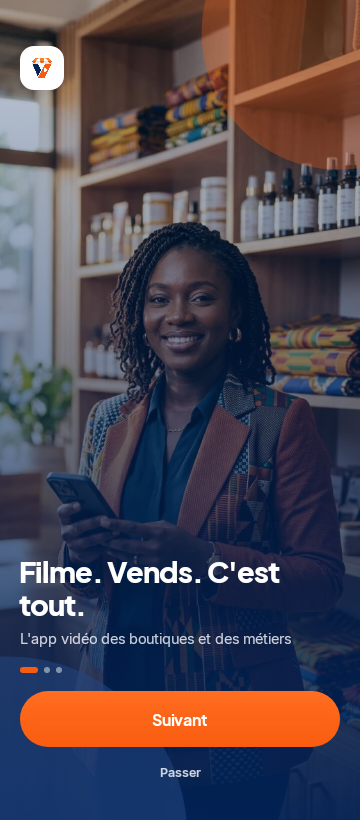
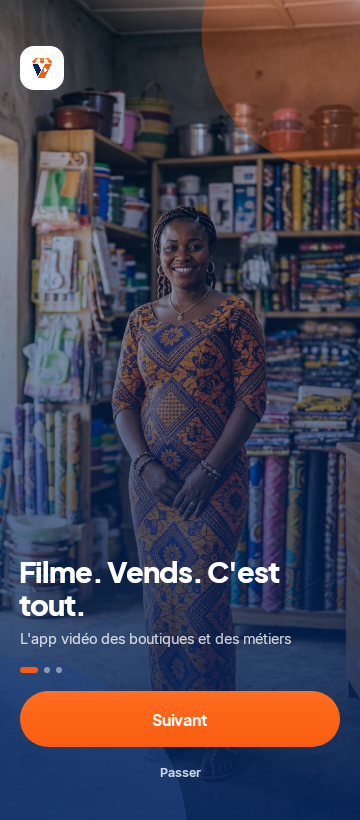
D42.34 Lot E/F: recaptures post-images originales (carrousels, secteurs)
- D34-11 remplacée (diff PIL 68,1% vs ancienne — image originale rendue)
- D34-13/D34-14 (slides 2-3) et D34-15 (grille secteurs) ajoutées
- Tests Robolectric :feature-onboarding + :feature-catalog SUCCESSFUL
  en local (toolchain réparée : cmdline-tools 15859902, platforms;android-37.0)
- Inventaire VR-003/4/5/15 : captures à jour post-images générées
- GENERATED_ASSETS.md : section recaptures + mesure des diffs
- Catalogue D34-01/02/03 : diff 0,1% (secteur Mode, aperçu BTP non impliqué)
  → recapture définitive après Lot D complet (29 aperçus restants)

diff --git a/docs/checkpoints/D42_34/00_JOURNAL.md b/docs/checkpoints/D42_34/00_JOURNAL.md
@@ -1,0 +1,23 @@
+
+## 17/11 soir — Lot C livré + Lot E vérifié + recaptures post-images
+
+- **Lot C LIVRÉ** : `10_AUDIT_FIDELITE_DESIGN.md` (bdee8f7) — 34 maquettes
+  auditées : 18 CONFORME / 5 ÉCART / 4 NON PROUVÉ / 7 NON APPLICABLE.
+  Méthode programmatique assumée (PIL + code + captures), jamais conforme sans
+  observation.
+- **Lot E VÉRIFIÉ SANS CORRECTION CODE** : VR-051 (phases worker réelles,
+  `KEY_PHASE`, barre indéterminée, zéro % inventé), VR-059 (Bonjour + prénom
+  réel sinon « Bonjour » seul), VR-063/064 (CTA « Choisir … » FR/EN actifs,
+  strings_billing.xml) — tout était déjà corrigé en CR-4. Seules des
+  **recaptures** restent (→ Lot F).
+- **Toolchain locale réparée** : cmdline-tools 15859902 (13114758 ne connaissait
+  pas android-37) ; la plateforme s'appelle désormais `platforms;android-37.0`
+  (nouvelle nomenclature). JDK17 + swap 2G OK. compileDebugKotlin SUCCESS.
+- **CI 43710292516 (57e720f) = SUCCESS** confirmé.
+- **Recaptures post-images originales** (Robolectric, tests verts) :
+  D34-11 remplacée (diff 68,1 %), D34-13/14 (slides 2-3), D34-15 (secteurs)
+  ajoutées. Catalogue D34-01/02/03 : diff 0,1 % — recapture différée après
+  les 29 aperçus restants (Lot D, limite 10 images/tour atteinte).
+- **Limite generate_image atteinte ce tour** : 29 aperçus restants reportés
+  au prochain tour (batiment T2-T5, coiffure, immo_auto, restaurants, shops,
+  vetements T1-T5 — prompts prêts dans GENERATED_ASSETS.md).

diff --git a/docs/checkpoints/D42_34/GENERATED_ASSETS.md b/docs/checkpoints/D42_34/GENERATED_ASSETS.md
@@ -19,6 +19,16 @@ projet. Ce registre trace la provenance de chaque ressource intégrée.
 | sector_vetements_mode.webp | assets_gen/sector_vetements_mode.png | Portants de vêtements wax | Originale générée IA |
 | apercu_batiment_travaux_t1.webp | assets_gen/apercu_batiment_T1.png | Arrivage matériaux (T1 BTP) | Originale générée IA |
 
+## Recaptures effectuées (17/11 soir, Robolectric NATIVE, toolchain locale)
+
+- D34-11 (slide 1 marchande) REMPLACÉE — diff PIL 68,1 % vs ancienne (image originale rendue)
+- D34-13 (slide 2 restauration) + D34-14 (slide 3 mode) AJOUTÉES
+- D34-15 (grille 6 secteurs) AJOUTÉE — chromatisme 10,8 % → 14,4 % (images rendues)
+- Catalogue D34-01/02/03 : diff 0,1 % (tests en secteur Mode — aperçu BTP non impliqué) ;
+  recapture définitive APRÈS complétude des 29 aperçus restants (Lot D)
+- Tests : :feature-onboarding:testDebugUnitTest et :feature-catalog:testDebugUnitTest
+  BUILD SUCCESSFUL en local (aucun échec, aucun FAIL→PASS)
+
 ## Reste à générer (29) — aperçus catalogue 16:9
 
 batiment T2→T5 (4), coiffure T1→T5 (5), immo_auto T1→T5 (5), restaurants
